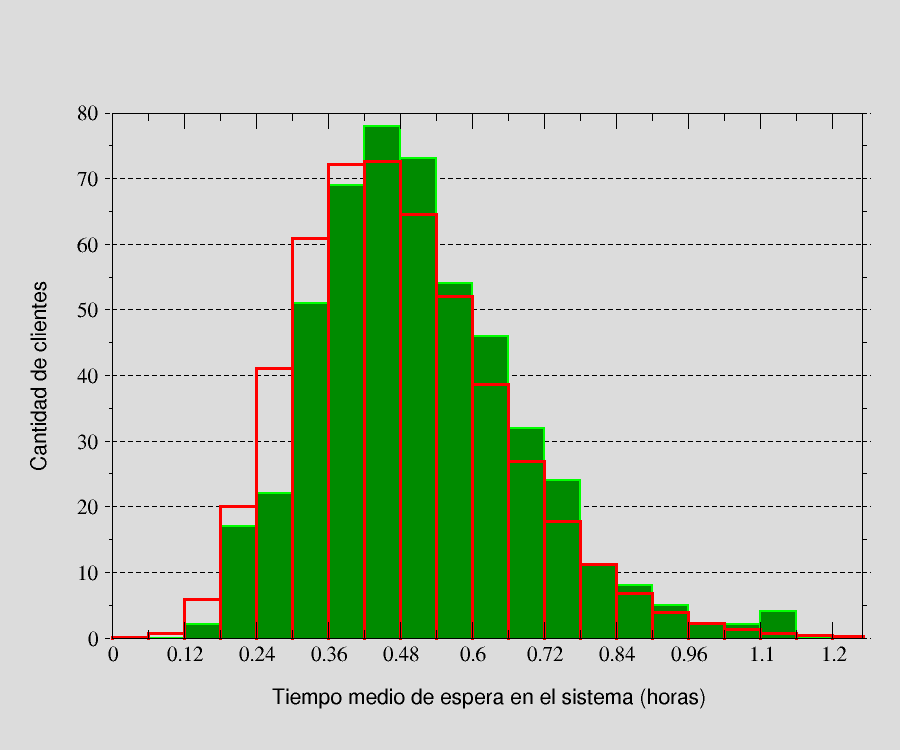
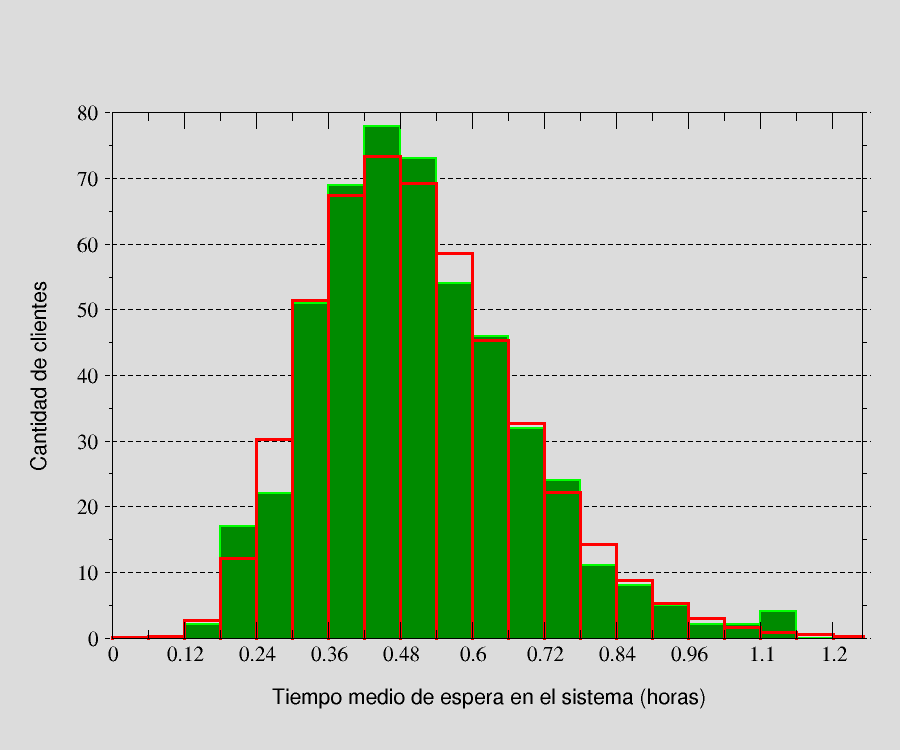
Rehaciendo los histogramas (por tercera vez) esta vez usando los valores calculados por nuestro programa para los intervalos de las distribuciones teoricas

diff --git a/modelos/PE2/results/calc_pvalues.c b/modelos/PE2/results/calc_pvalues.c
@@ -96,18 +96,32 @@ static double F_LogNormal (double x)
 
 
 
-/* Guarda las probabilidades listadas en 'prob', que son 'n' en total,
+/* Guarda los valores probabiliisticos listados en 'prob', que son 'n' en total,
  * dentro de un archivo de nombre 'fname'
+ * Aniade el mensaje 'msg' al comienzo del archivo (sii 'msg' != NULL)
  *
  * PRE: fname != NULL
  *	prob  != NULL && #(prob) == n
  */
-static void save_interval_probabilities (const char* fname, double *prob, n)
+static void save_probabilities (const char* fname, double *prob,
+				unsigned int n, const char *msg)
 {
 	FILE *f = NULL;
+	unsigned int i = 0;
 	
 	assert (fname != NULL);
 	assert (prob  != NULL);
+	
+	f = fopen (fname,"w");
+	assert (f != NULL);
+	
+	if (msg != NULL)
+		fprintf (f, "%s\n", msg);
+	
+	for (i=0 ; i<n ; i++)
+		fprintf (f, "%u) %.8f\n", i, (double) SAMPLE_SIZE * prob[i]);
+	
+	fclose (f);
 	
 	return;
 }
@@ -119,7 +133,6 @@ static void save_interval_probabilities (const char* fname, double *prob, n)
 /** ### MAIN */
 int main (void)
 {
-	FILE *fprob = NULL;
 	double p_value = 0.0;
 	
 	double I[NI];		/* Intervalos */
@@ -164,17 +177,25 @@ int main (void)
 	act4_gen_pi (pGamma, I, NI, F_Gamma);
 	Tg = ji_cuadrado (sample, SAMPLE_SIZE, I, NI, pGamma);
 	printf ("\tGamma T = %.8f\n", Tg),
-	save_interval_probabilities (pGamma, NI);
+	save_probabilities ("Gamma_interval_probs.dat", pGamma, NI,
+			    "Probabilities for defined intervals according to "
+			    "the Gamma distribution\n");
 	
 	/* Prob. de caer en cada intervalo según Normal(μ,σ) */
 	act4_gen_pi (pNormal, I, NI, F_Normal);
 	Tn = ji_cuadrado (sample, SAMPLE_SIZE, I, NI, pNormal);
 	printf ("\tNorm T = %.8f\n", Tn);
-			
+	save_probabilities ("Normal_interval_probs.dat", pNormal, NI,
+			    "Probabilities for defined intervals according to "
+			    "the Normal distribution\n");
+	
 	/* Prob. de caer en cada intervalo según LogNormal(μ,σ) */
 	act4_gen_pi (pLogNormal, I, NI, F_LogNormal);
 	Tln = ji_cuadrado (sample, SAMPLE_SIZE, I, NI, pLogNormal);
 	printf ("\tLogNorm T = %.8f\n", Tln);
+	save_probabilities ("LogNormal_interval_probs.dat", pLogNormal, NI,
+			    "Probabilities for defined intervals according to "
+			    "the LogNormal distribution\n");
 	
 	
 	printf ("\nValores-p según Ji-2 (con aproximación)\n");
